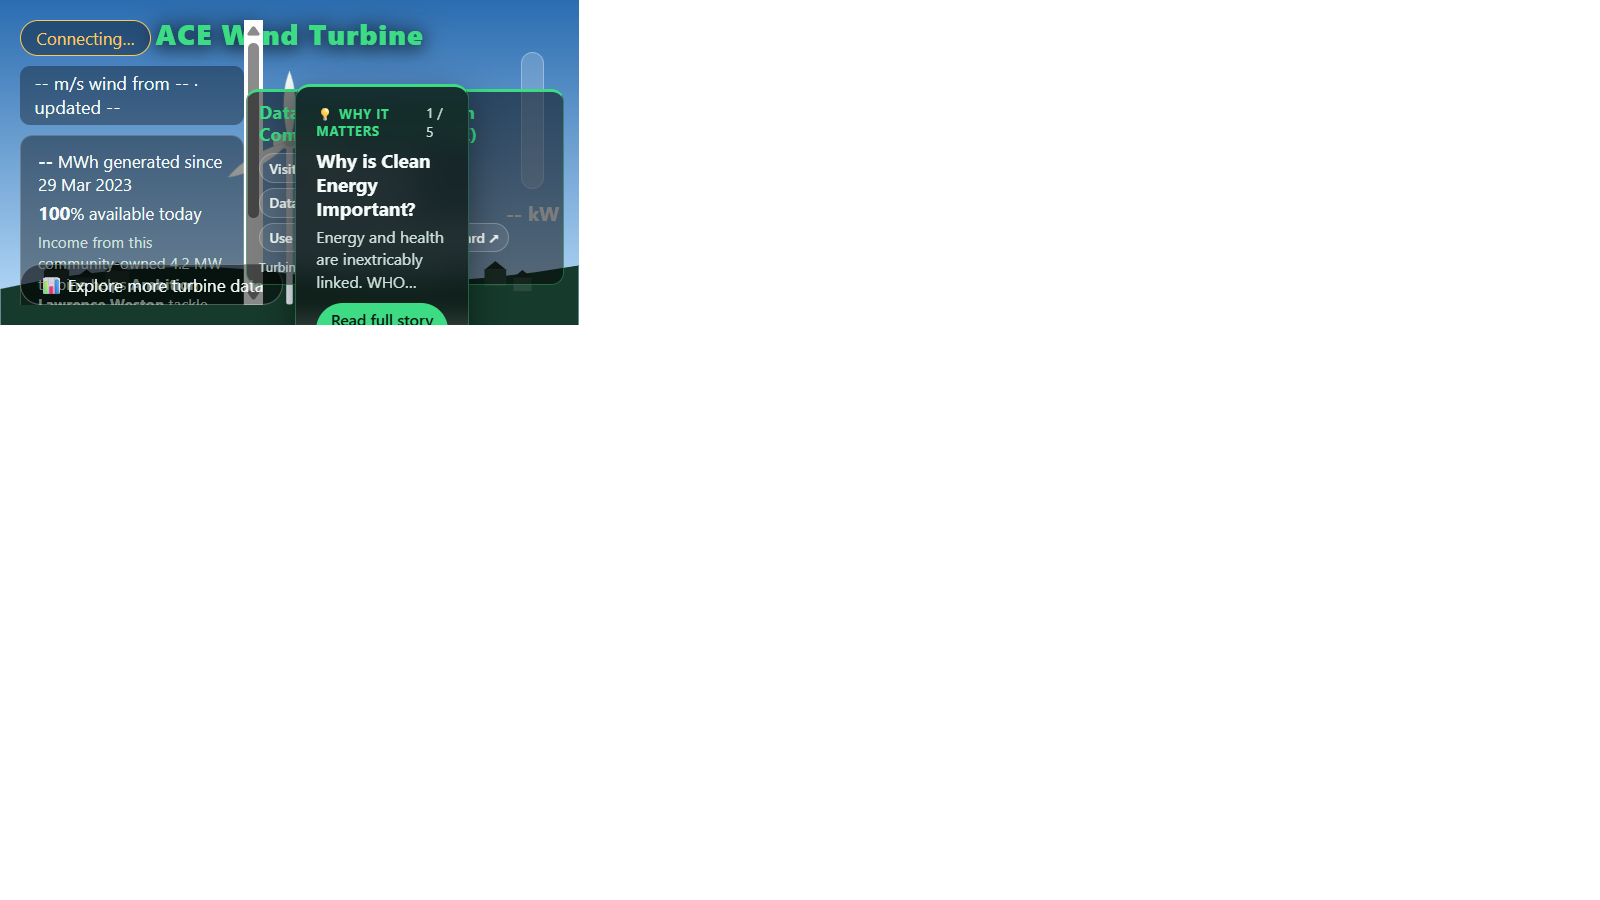
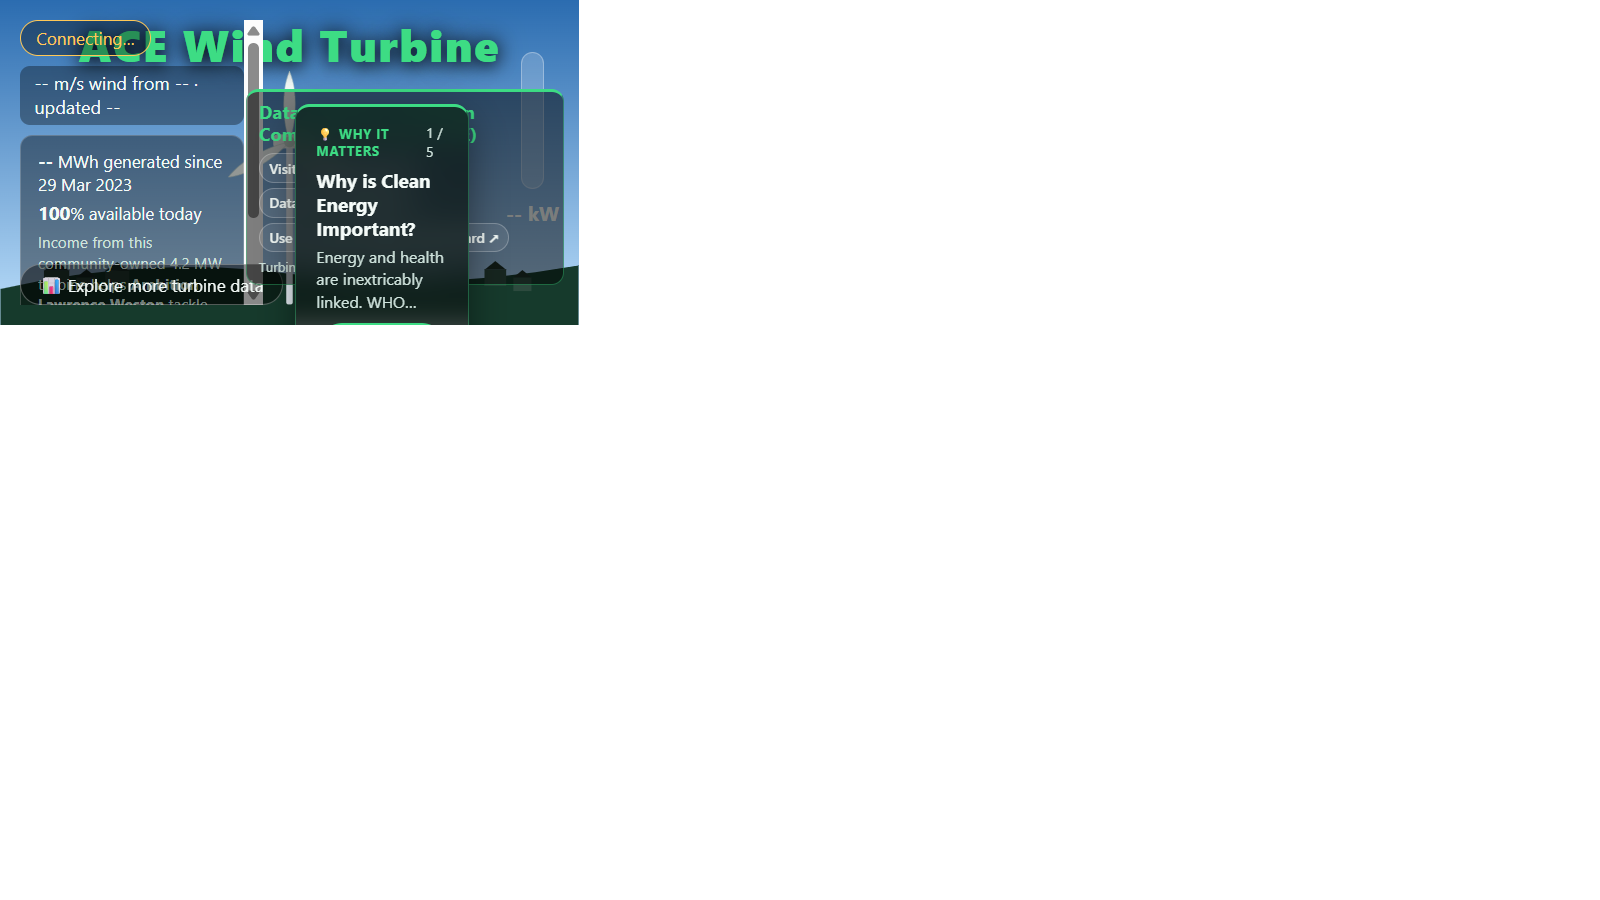
Enlarge ACE Wind Turbine title font and adjust story dock top
- Increase .scene-title font size to clamp(2.2rem, 4.2vw, 3.8rem)
- Adjust .story-dock top to clamp(5.2rem, 12vh, 7.4rem) to maintain vertical separation
- Update concept-7 screenshot

Changed region(s): [[0.0312, 0.0, 0.3125, 0.3733]]

diff --git a/solutions/concept-7-live-digital-twin-popups/styles.css b/solutions/concept-7-live-digital-twin-popups/styles.css
@@ -112,7 +112,7 @@ body {
 
 .scene-title {
   position: absolute;
-  top: clamp(0.75rem, 2vh, 1.5rem);
+  top: clamp(0.75rem, 1.8vh, 1.5rem);
   left: 50%;
   transform: translateX(-50%);
   margin: 0;
@@ -120,7 +120,7 @@ body {
   background: none;
   border: none;
   border-radius: 0;
-  font-size: clamp(1.4rem, 2.5vw, 2.2rem);
+  font-size: clamp(2.2rem, 4.2vw, 3.8rem);
   font-weight: 800;
   letter-spacing: 0.04em;
   color: var(--good);
@@ -433,7 +433,7 @@ body {
 .story-dock {
   position: absolute;
   right: clamp(5.5rem, 7.8vw, 7.5rem);
-  top: clamp(4.2rem, 8.5vh, 6.2rem);
+  top: clamp(5.2rem, 12vh, 7.4rem);
   max-width: min(34ch, 30vw);
   background: rgba(8, 20, 16, 0.72);
   backdrop-filter: blur(12px);
